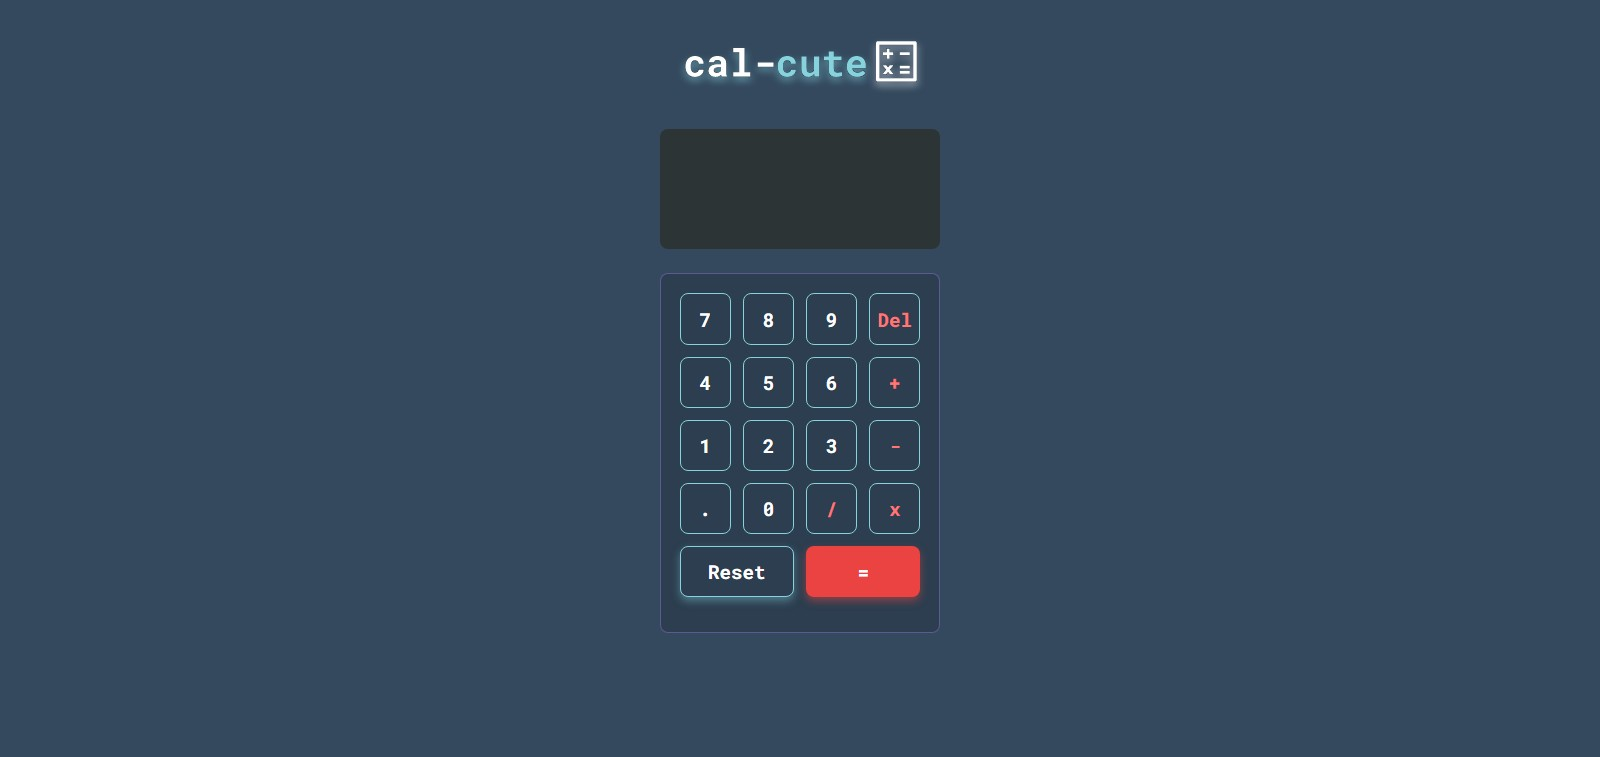
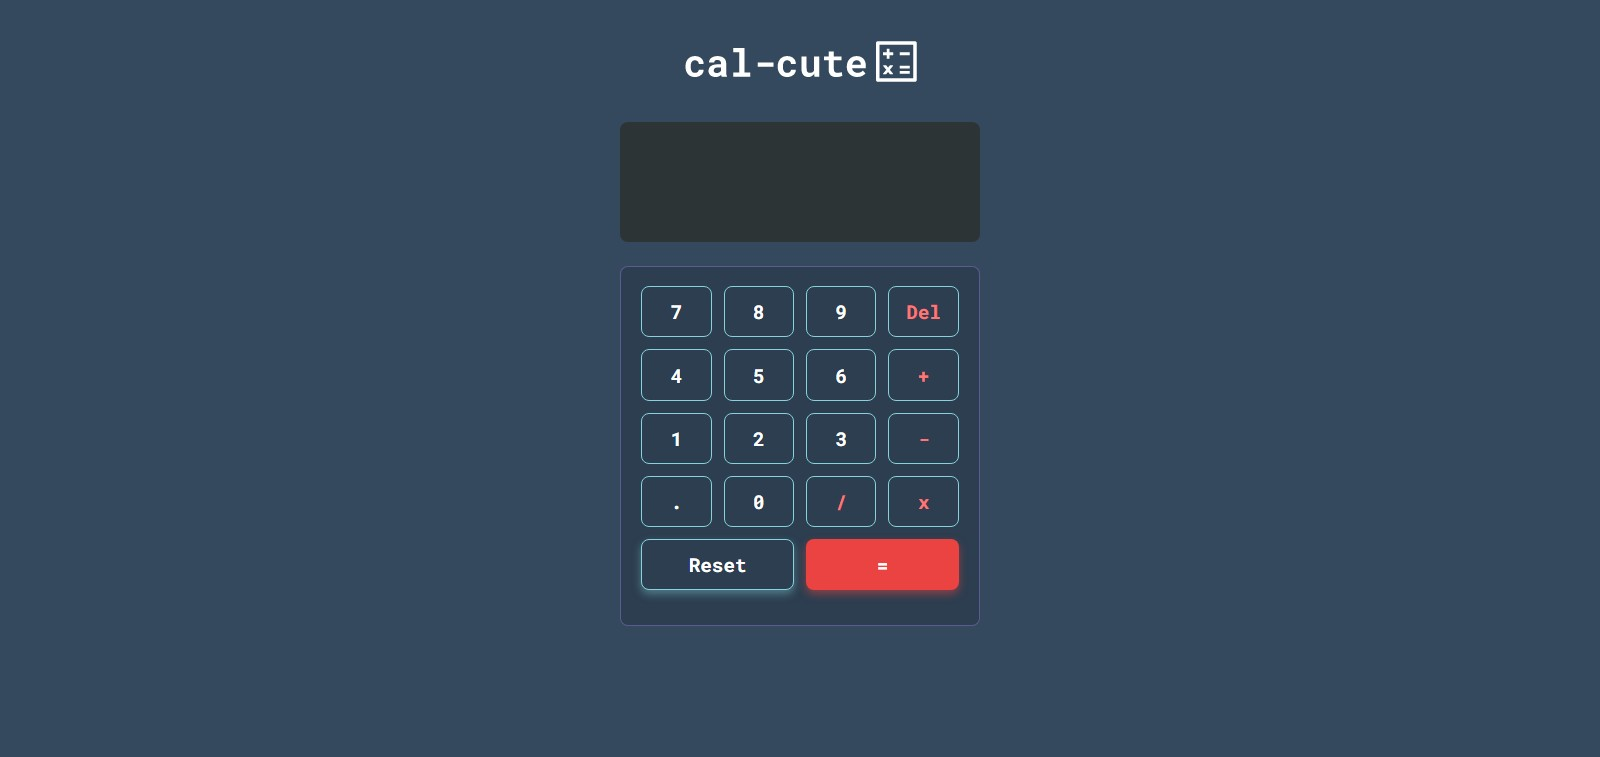
edited calculator width

Changed region(s): [[0.4062, 0.395, 0.625, 0.8203], [0.375, 0.1519, 0.625, 0.3342], [0.4375, 0.0608, 0.5938, 0.1215]]

diff --git a/assets/css/style.css b/assets/css/style.css
@@ -28,10 +28,22 @@ body,
   color: #636e72;
 }
 
+@media screen and (min-width: 33.75rem) {
+  .input-btn {
+    width: 88px;
+  }
+}
+
 .btn-reset {
   width: 143px;
   grid-column: span 2;
   box-shadow: 0px 5px 10px 0px rgba(118, 185, 196, 0.5);
+}
+
+@media screen and (min-width: 33.75rem) {
+  .btn-reset {
+    width: 191px;
+  }
 }
 
 .btn-sum {
@@ -45,6 +57,12 @@ body,
 .btn-sum:hover {
   background-color: #ff7675;
   color: whitesmoke;
+}
+
+@media screen and (min-width: 33.75rem) {
+  .btn-sum {
+    width: 191px;
+  }
 }
 
 .btn-divide,
@@ -88,6 +106,13 @@ body {
   grid-template-columns: repeat(4, 64px);
 }
 
+@media screen and (min-width: 33.75rem) {
+  .input-wrap {
+    width: 450px;
+    grid-template-columns: repeat(4, 88px);
+  }
+}
+
 .output-wrap {
   background-color: #2d3436;
   margin: 0 12px;
@@ -101,6 +126,12 @@ body {
   align-items: flex-end;
   word-wrap: break-word;
   word-break: break-all;
+}
+
+@media screen and (min-width: 33.75rem) {
+  .output-wrap {
+    width: 450px;
+  }
 }
 
 .output-history,

diff --git a/scss/_button.scss b/scss/_button.scss
@@ -15,6 +15,11 @@
     background-color: $outline-btn;
     color: #636e72;
   }
+
+  //540px
+  @media screen and (min-width: 33.75rem) {
+    width: 88px;
+  }
 }
 
 .btn-reset {
@@ -22,6 +27,11 @@
   grid-column: span 2;
   // box shadow: x y blur spread color
   box-shadow: 0px 5px 10px 0px rgba(118, 185, 196, 0.5);
+
+  //540px
+  @media screen and (min-width: 33.75rem) {
+    width: 191px;
+  }
 }
 
 .btn-sum {
@@ -34,6 +44,11 @@
   &:hover {
     background-color: #ff7675;
     color: whitesmoke;
+  }
+
+  //540px
+  @media screen and (min-width: 33.75rem) {
+    width: 191px;
   }
 }
 

diff --git a/index.html b/index.html
@@ -23,7 +23,7 @@
     <main class="form">
       <!-- logo -->
       <div class="img-wrap">
-        <img src="./images/logo-2.svg" alt="cal-cute logo" />
+        <img src="./images/logo-1.svg" alt="cal-cute logo" />
       </div>
 
       <!-- output field -->

diff --git a/scss/_input.scss b/scss/_input.scss
@@ -11,4 +11,10 @@
   align-content: center;
   gap: 15px;
   grid-template-columns: repeat(4, 64px);
+
+  //540px
+  @media screen and (min-width: 33.75rem) {
+    width: 450px;
+    grid-template-columns: repeat(4, 88px);
+  }
 }

diff --git a/scss/_output.scss b/scss/_output.scss
@@ -11,6 +11,11 @@
   align-items: flex-end;
   word-wrap: break-word;
   word-break: break-all;
+
+  //540px
+  @media screen and (min-width: 33.75rem) {
+    width: 450px;
+  }
 }
 
 .output-history,
